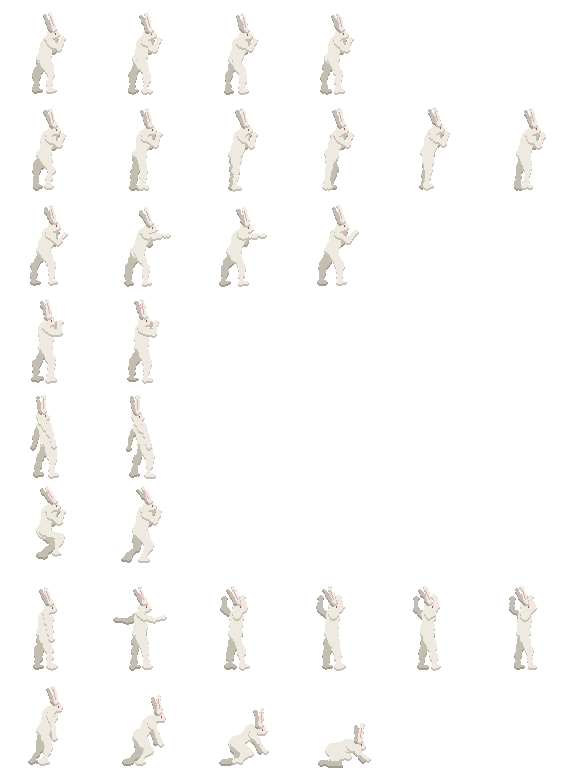
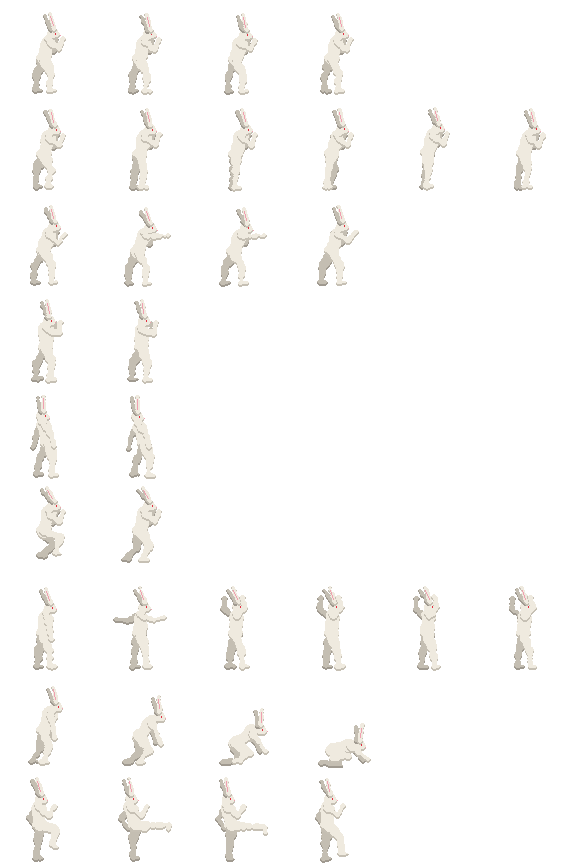
Senzi: cogumelo não prende o coelho; barra de energia menor; fases pela vida (guardada por coração); chute do coelhão
Claude-Session: https://claude.ai/code/session_01UUHK2L34Y5k1sZ9bGVAo6W

diff --git a/tools/art/senzi_sprites.py b/tools/art/senzi_sprites.py
@@ -519,6 +519,16 @@ def jump_pose(i):
             "arm_f": (0.95, 2.75), "arm_b": (0.7, 2.9), "neck": 0.0, "ears": -0.25}
 
 
+def kick_pose(i):
+    """O chute: dobra o joelho no alto, estica a perna da frente reta, segura, volta. O corpo vai para trás."""
+    lf = [(1.35, -0.3, 0.6), (1.58, 1.58, 1.6), (1.52, 1.52, 1.5), (0.8, 0.1, 0.2)][i]
+    lb = (-0.15, -0.05)
+    hip = stand_hip([lb], 0.0, x=40.0)
+    return {"hip": hip, "tilt": [-0.15, -0.35, -0.32, -0.1][i], "leg_f": lf, "leg_b": lb,
+            "arm_f": (0.9, 2.6), "arm_b": (-0.6, 0.6), "neck": -0.15 if i in (1, 2) else 0.0, "ears": 0.3 if i in (1, 2) else 0.1,
+            "tent": 0.0}
+
+
 def rabbit(fn):
     """A mesma pose, no coelhão."""
     def f(i):
@@ -530,7 +540,7 @@ def rabbit(fn):
 
 RABBIT_ANIMS = [("guard", 4, rabbit(guard_pose)), ("walk", 6, rabbit(walk_pose)), ("jab", 4, rabbit(jab_pose)),
                 ("block", 2, rabbit(block_pose)), ("hit", 2, rabbit(hit_pose)), ("jump", 2, rabbit(jump_pose)),
-                ("flex", 6, rabbit(flex_pose)), ("die", 4, rabbit(die_pose))]
+                ("flex", 6, rabbit(flex_pose)), ("die", 4, rabbit(die_pose)), ("kick", 4, rabbit(kick_pose))]
 
 
 ANIMS = [("run", 8, run_pose), ("idle", 4, idle_pose), ("flex", 6, flex_pose), ("throw", 4, throw_pose), ("die", 4, die_pose),

diff --git a/docs/DECISOES.md b/docs/DECISOES.md
@@ -855,3 +855,7 @@ Diagnóstico que motivou estas decisões: as salas atuais são todas uma caixa v
 - **As barras:** a do coelho à esquerda (90 de vida, 3 jabs do Senzi por coração), a do Senzi à direita (180, 12 jabs por coração), cada uma em três terços com os corações embaixo; no meio, o tempo do coelhão, verde, esvaziando, que pisca nos últimos 3 s (o coelhão também pisca).
 - **Arte:** folha nova `art/coelhao.png` (o mesmo gerador e esqueleto do Senzi, com o pelo branco, a cabeça de coelho, as orelhas compridas com o rosa por dentro e o olho vermelho; sem gosma): guarda, andar, jab, defesa, apanhar, pulo, flexão e nocaute. O Senzi ganhou guarda, andar, defesa e apanhar. A sala ganhou `raw_inp` (os comandos antes da trava, que o ringue lê) e `rabbit_hidden`.
 - **Prova:** `test_senzi_bot` foge, pega a seringa girando a sala e, no ringue, chega perto e dá jab, defende o jab dele e recua do carregado (com as vidas repostas: leva alguns ringues).
+- **Ajustes (Victor):**
+  - **Cogumelo que nasce em cima do coelho** o prendia (brotava sólido com ele dentro, durante o aviso o coelho podia entrar no lugar). Agora, se um cogumelo brotado (ou girado) encosta no coelho, ele sai pela ponta do cogumelo num pulinho (para cima, no do chão; para baixo, no do teto).
+  - **A barra de energia** ficou com 40% do tamanho e sem divisões; ao lado dela, os corações do Senzi (roxos). **As três fases da perseguição** (velocidade, cogumelos, pulo, halteres) agora seguem a **vida** dele, que só cai no ringue. **A fase alcançada fica guardada:** no fim do ringue, a vida volta ao topo do coração em que ele está (tirou 60%: ele volta com 2/3); o que não chegou a tirar um coração inteiro se perde.
+  - **O chute** (giro direito; o jab ficou no giro esquerdo): mais lento (acerta no 9º quadro), alcance de 54 px, 9 de dano, empurra o dobro e **quebra a defesa** do Senzi. Com a vida guardada por coração, o ringue só rende se tirar um coração inteiro: o bot só com jab não chegou a isso em 12 ringues; com o chute, vence em 2.
